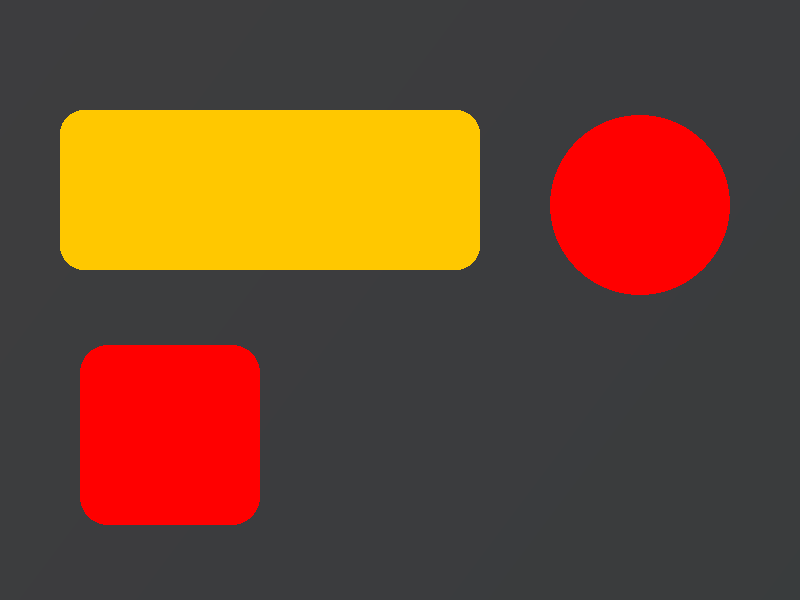
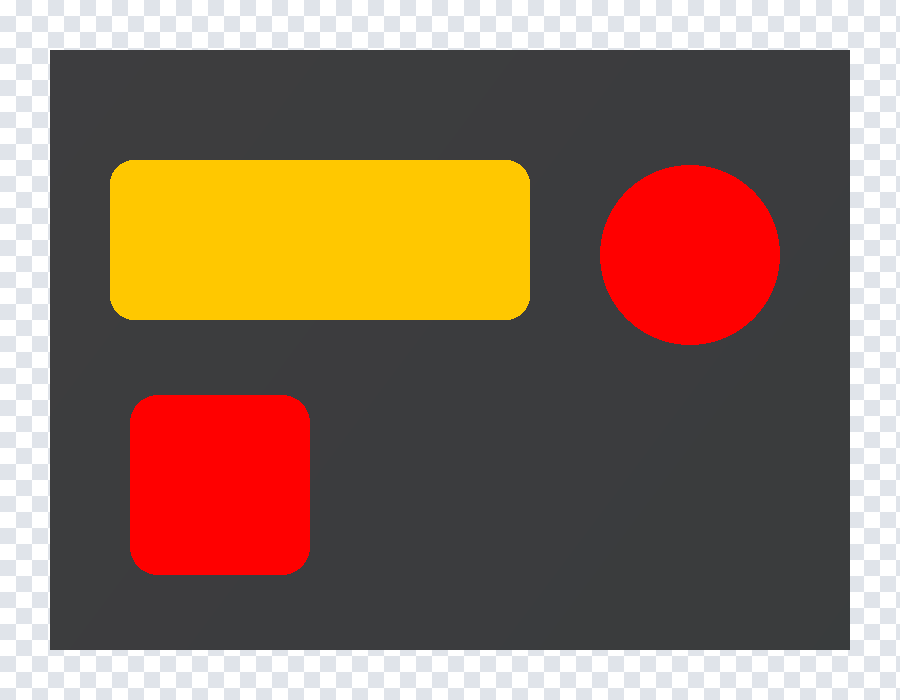
Frame all documentation images with a checkerboard surround
Center every800x600 display image in a900x700 checkerboard preview with50-pixel padding. Apply the same presentation to masks and all diagnostics without changing in-memory comparison data or original RGBA inputs.

diff --git a/documentation/docfx/guides/testing/generate-images.cs b/documentation/docfx/guides/testing/generate-images.cs
@@ -34,14 +34,14 @@ SaveImage("expected.png", expected);
 SaveImage("actual.png", actual);
 SavePreview("expected-preview.png", expected);
 SavePreview("actual-preview.png", actual);
-SaveImage("tolerance-mask.png", toleranceMask);
-SaveImage("ignore-mask.png", ignoreMask);
+SavePreview("tolerance-mask.png", toleranceMask);
+SavePreview("ignore-mask.png", ignoreMask);
 using var exact = SKPixelComparer.GenerateDifferenceImage(expected, actual);
-SaveImage("comparison-exact.png", exact);
+SavePreview("comparison-exact.png", exact);
 
 var toleranceOptions = RgbTolerance();
 using var tolerant = SKPixelComparer.GenerateDifferenceImage(expected, actual, options: toleranceOptions);
-SaveImage("comparison-tolerant.png", tolerant);
+SavePreview("comparison-tolerant.png", tolerant);
 
 var styleOptions = RgbTolerance();
 styleOptions.AlphaTolerance = SKPixelTolerance.Exact;
@@ -49,10 +49,10 @@ using var overlay = SKPixelComparer.GenerateDifferenceImage(expected, actual, op
 using var map = SKPixelComparer.GenerateDifferenceImage(expected, actual, SKPixelDifferenceStyle.ThresholdMap, styleOptions);
 using var binary = SKPixelComparer.GenerateDifferenceImage(expected, actual, SKPixelDifferenceStyle.BinaryMask, styleOptions);
 using var channels = SKPixelComparer.GenerateDifferenceImage(expected, actual, SKPixelDifferenceStyle.ChannelDifference, styleOptions);
-SaveImage("threshold-overlay.png", overlay);
-SaveImage("threshold-map.png", map);
-SaveImage("binary-mask.png", binary);
-SaveImage("channel-difference.png", channels);
+SavePreview("threshold-overlay.png", overlay);
+SavePreview("threshold-map.png", map);
+SavePreview("binary-mask.png", binary);
+SavePreview("channel-difference.png", channels);
 
 var regionalTolerance = new SKPixelComparerOptions
 {
@@ -60,7 +60,7 @@ var regionalTolerance = new SKPixelComparerOptions
     ToleranceMask = toleranceMask,
 };
 using var regionTolerated = SKPixelComparer.GenerateDifferenceImage(expected, actual, options: regionalTolerance);
-SaveImage("comparison-tolerance.png", regionTolerated);
+SavePreview("comparison-tolerance.png", regionTolerated);
 
 var regionalIgnore = new SKPixelComparerOptions
 {
@@ -68,7 +68,7 @@ var regionalIgnore = new SKPixelComparerOptions
     IgnoreMask = ignoreMask,
 };
 using var regionIgnored = SKPixelComparer.GenerateDifferenceImage(expected, actual, options: regionalIgnore);
-SaveImage("comparison-ignore.png", regionIgnored);
+SavePreview("comparison-ignore.png", regionIgnored);
 
 Console.WriteLine($"Generated comparison images in {images}");
 
@@ -125,17 +125,20 @@ void SaveImage(string name, SKImage image)
 
 void SavePreview(string name, SKImage image)
 {
-    using var bitmap = new SKBitmap(new SKImageInfo(image.Width, image.Height, SKColorType.Bgra8888, SKAlphaType.Opaque));
+    const int padding = 50;
+    var width = image.Width + padding * 2;
+    var height = image.Height + padding * 2;
+    using var bitmap = new SKBitmap(new SKImageInfo(width, height, SKColorType.Bgra8888, SKAlphaType.Opaque));
     using var canvas = new SKCanvas(bitmap);
     using var paint = new SKPaint();
-    for (var y = 0; y < image.Height; y += 16)
-        for (var x = 0; x < image.Width; x += 16)
+    for (var y = 0; y < height; y += 16)
+        for (var x = 0; x < width; x += 16)
         {
             paint.Color = ((x / 16 + y / 16) & 1) == 0
                 ? SKColors.White : new SKColor(224, 228, 234);
-            canvas.DrawRect(x, y, Math.Min(16, image.Width - x), Math.Min(16, image.Height - y), paint);
+            canvas.DrawRect(x, y, Math.Min(16, width - x), Math.Min(16, height - y), paint);
         }
-    canvas.DrawImage(image, 0, 0, SKSamplingOptions.Default);
+    canvas.DrawImage(image, padding, padding, SKSamplingOptions.Default);
     using var preview = SKImage.FromBitmap(bitmap)
         ?? throw new InvalidOperationException($"Unable to create {name}.");
     SaveImage(name, preview);

diff --git a/documentation/docfx/guides/testing/image-comparison.md b/documentation/docfx/guides/testing/image-comparison.md
@@ -39,7 +39,9 @@ dotnet add package SkiaSharp.Testing
 Every example uses this scene. The rounded blue panel changes from RGB **(72, 104, 192)**
 to **(74, 106, 194)**, the green circle keeps RGB **(48, 185, 131)** but changes alpha
 from **255** to **128**, and the rounded violet square is new. The display copies
-have a checkerboard behind them to reveal transparency. The original
+have a 50-pixel checkerboard surround and backdrop to reveal transparency.
+Every displayed image, including masks and diagnostics, is 900x700 with the
+800x600 result centered inside. Opaque regions hide the checkerboard. The original
 `expected.png` and `actual.png` retain their alpha for comparison; the
 checkerboard is not part of the compared pixels.
 
@@ -225,6 +227,6 @@ dotnet run --file documentation/docfx/guides/testing/generate-images.cs \
 ```
 
 Edit `RenderScene` in `generate-images.cs` to change the base artwork. The script
-regenerates the plain inputs, masks and diagnostics together, plus checkerboard
-display copies of the inputs. It does not draw labels, compose panels, capture
+regenerates the plain inputs plus padded checkerboard display copies of every
+input, mask and diagnostic. It does not draw labels, compose panels, capture
 devices, update references or accept baselines.
